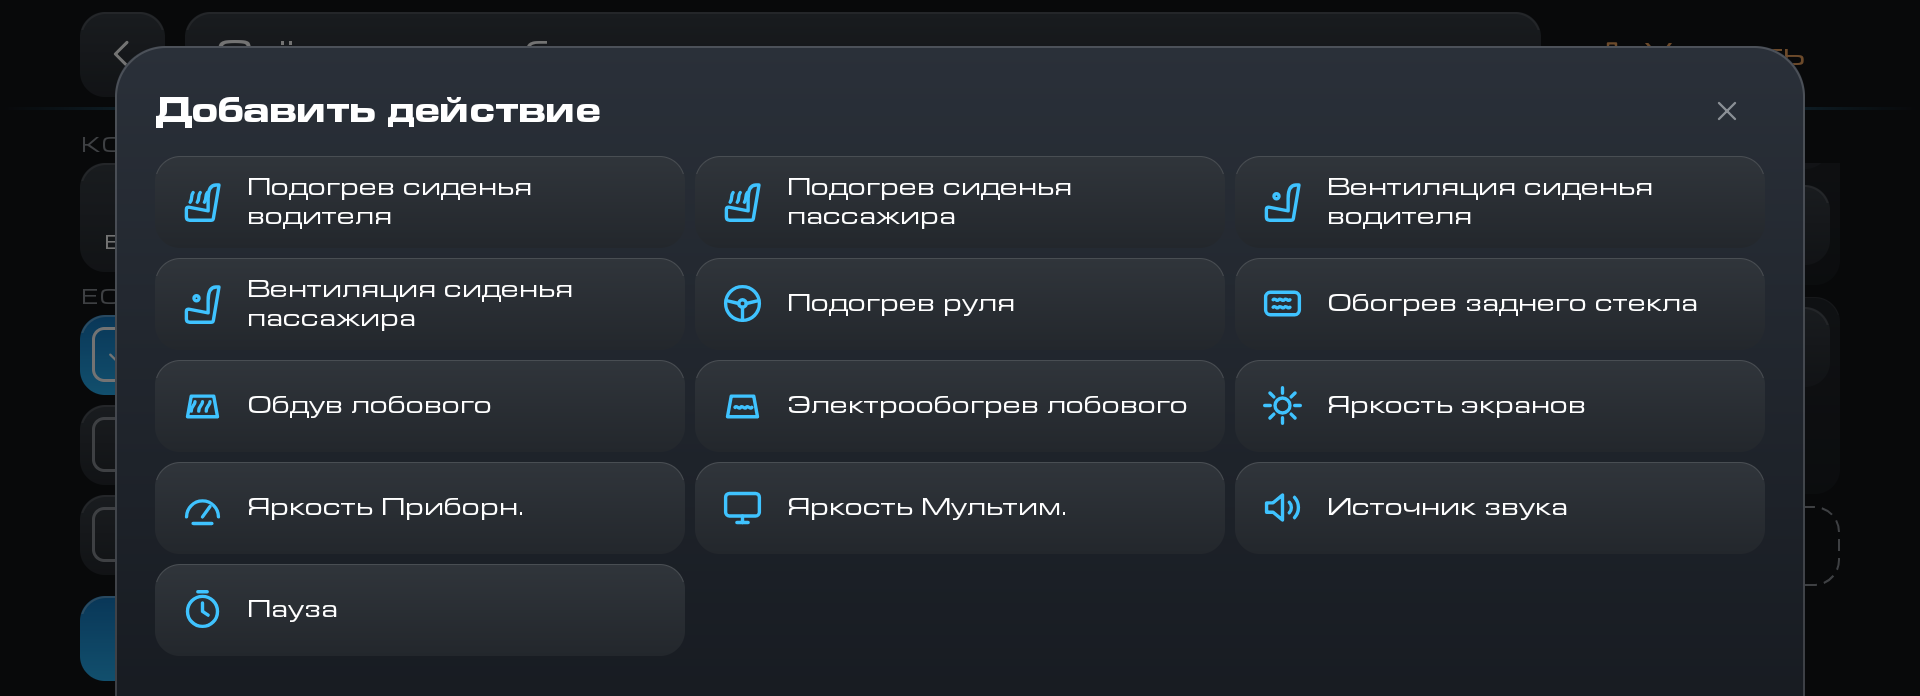
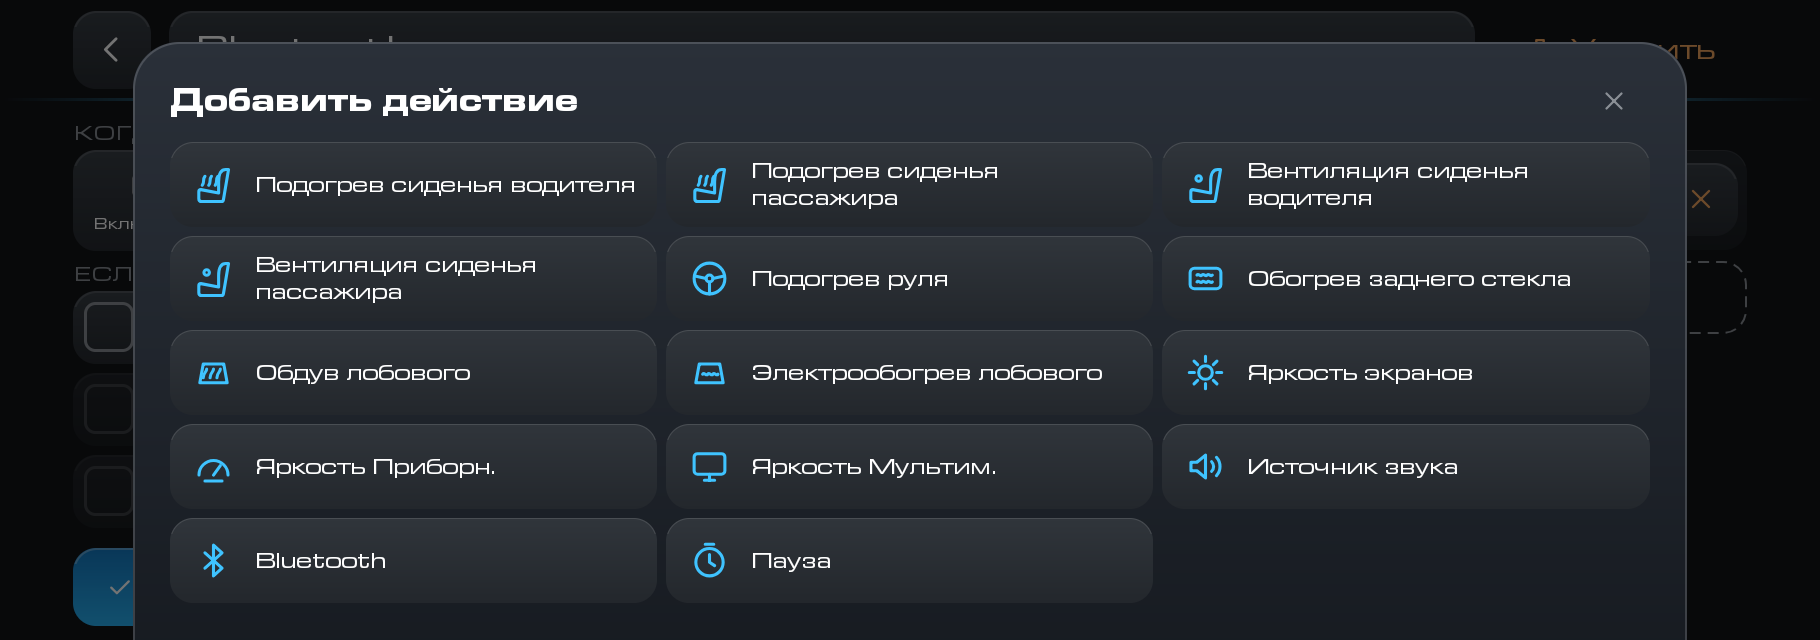
Витрина: свежие кадры GWM Comfort 0.8

diff --git a/comfort/README.md b/comfort/README.md
@@ -13,7 +13,7 @@
 > Завёл двигатель, за бортом ниже +3 °C, машина стояла больше двух часов — включились подогрев
 > руля, заднего стекла и сиденья водителя.
 
-![Список сценариев](list.png)
+![Список сценариев Comfort 0.8 и галка «Автоподключение Bluetooth»](list.png)
 
 ## Как устроен сценарий
 
@@ -34,7 +34,7 @@
   экранов (1–10) и поправки яркости «Приборн.» и «Мультим.» (от −5 до +5). Источник звука: радио
   FM и AM, USB, Bluetooth. Выключить или включить Bluetooth ГУ. Пауза от 1 до 30 минут.
 
-![Редактор сценария](edit.png)
+![Редактор сценария: семь событий в «Когда», выбрано «Двигатель заглушен», действие Bluetooth OFF](edit.png)
 
 Любое действие можно добавлять несколько раз. Так получается подогрев сиденья на пять минут:
 включить на 3, подождать 5 минут, выключить.
@@ -47,9 +47,9 @@
 противоположное, для «включения» — выключение или сон ГУ, для «обдув включён» — выключенный обдув. «Проверить сейчас»
 выполняет действие один раз, без повтора.
 
-![Пауза 5 минут и выключение подогрева сиденья: подогрев на пять минут](repeat.png)
+![Сценарий без события: обогрев заднего стекла при температуре за бортом ниже −5 °C с повтором каждые 15 минут](repeat.png)
 
-![Добавить действие](add.png)
+![Добавить действие: Bluetooth и пауза](add.png)
 
 ## Сценарий без события
 
